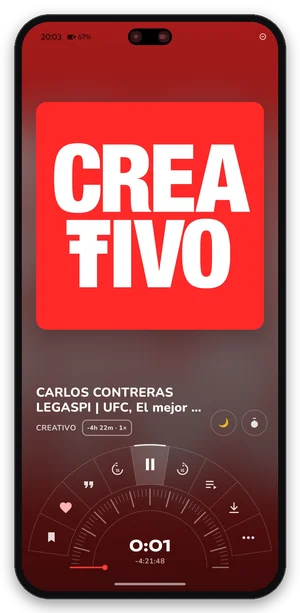
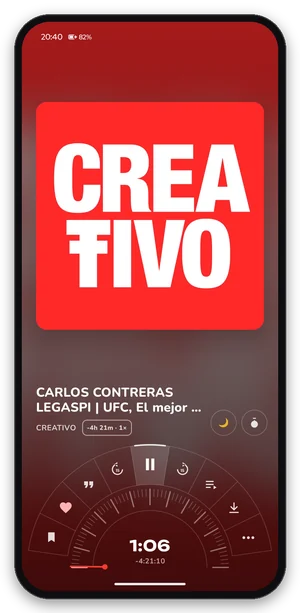
Capturas nuevas de Headpod sin la isla dinámica
Claude-Session: https://claude.ai/code/session_01NXFyG623uibTvfTSYqBJRS

diff --git a/index.html b/index.html
@@ -388,17 +388,17 @@ footer .envoltura{display:flex;justify-content:space-between;gap:12px;flex-wrap:
       </div>
       <div class="tira-titulo"><h3>Así se ve</h3></div>
       <div class="tira" tabindex="0" aria-label="Pantallas de Headpod">
-        <figure><img src="img/hp/inicio.webp" alt="Inicio con tu mezcla del día" loading="lazy"><figcaption>Inicio y tu mezcla del día</figcaption></figure>
-        <figure><img src="img/hp/descubrir.webp" alt="Descubrir" loading="lazy"><figcaption>Descubrir</figcaption></figure>
-        <figure><img src="img/hp/biblioteca.webp" alt="Biblioteca" loading="lazy"><figcaption>Biblioteca</figcaption></figure>
+        <figure><img src="img/hp/inicio.webp?v=2" alt="Inicio con tu mezcla del día" loading="lazy"><figcaption>Inicio y tu mezcla del día</figcaption></figure>
+        <figure><img src="img/hp/descubrir.webp?v=2" alt="Descubrir" loading="lazy"><figcaption>Descubrir</figcaption></figure>
+        <figure><img src="img/hp/biblioteca.webp?v=2" alt="Biblioteca" loading="lazy"><figcaption>Biblioteca</figcaption></figure>
       </div>
 
       <div class="tira-titulo"><h3>Elige tu reproductor</h3><small>en Ajustes → Reproductor</small></div>
       <div class="tira" tabindex="0" aria-label="Los cuatro estilos de reproductor">
-        <figure><img src="img/hp/rep-material3.webp" alt="Material 3" loading="lazy"><figcaption>Material 3<span>Expresivo, con botones que se deforman</span></figcaption></figure>
-        <figure><img src="img/hp/rep-disco.webp" alt="Disco" loading="lazy"><figcaption>Disco<span>Un tocadiscos: el brazo marca el avance</span></figcaption></figure>
-        <figure><img src="img/hp/rep-portada.webp" alt="Portada completa" loading="lazy"><figcaption>Portada completa<span>La portada en grande y un dial</span></figcaption></figure>
-        <figure><img src="img/hp/rep-clasico.webp" alt="Clásico" loading="lazy"><figcaption>Clásico<span>El diseño original de Headpod</span></figcaption></figure>
+        <figure><img src="img/hp/rep-material3.webp?v=2" alt="Material 3" loading="lazy"><figcaption>Material 3<span>Expresivo, con botones que se deforman</span></figcaption></figure>
+        <figure><img src="img/hp/rep-disco.webp?v=2" alt="Disco" loading="lazy"><figcaption>Disco<span>Un tocadiscos: el brazo marca el avance</span></figcaption></figure>
+        <figure><img src="img/hp/rep-portada.webp?v=2" alt="Portada completa" loading="lazy"><figcaption>Portada completa<span>La portada en grande y un dial</span></figcaption></figure>
+        <figure><img src="img/hp/rep-clasico.webp?v=2" alt="Clásico" loading="lazy"><figcaption>Clásico<span>El diseño original de Headpod</span></figcaption></figure>
       </div>
 
       <div class="cosas">

diff --git a/en/index.html b/en/index.html
@@ -388,17 +388,17 @@ footer .envoltura{display:flex;justify-content:space-between;gap:12px;flex-wrap:
       </div>
       <div class="tira-titulo"><h3>How it looks</h3></div>
       <div class="tira" tabindex="0" aria-label="Headpod screens">
-        <figure><img src="../img/hp/inicio.webp" alt="Home with your daily mix" loading="lazy"><figcaption>Home and your daily mix</figcaption></figure>
-        <figure><img src="../img/hp/descubrir.webp" alt="Discover" loading="lazy"><figcaption>Discover</figcaption></figure>
-        <figure><img src="../img/hp/biblioteca.webp" alt="Library" loading="lazy"><figcaption>Library</figcaption></figure>
+        <figure><img src="../img/hp/inicio.webp?v=2" alt="Home with your daily mix" loading="lazy"><figcaption>Home and your daily mix</figcaption></figure>
+        <figure><img src="../img/hp/descubrir.webp?v=2" alt="Discover" loading="lazy"><figcaption>Discover</figcaption></figure>
+        <figure><img src="../img/hp/biblioteca.webp?v=2" alt="Library" loading="lazy"><figcaption>Library</figcaption></figure>
       </div>
 
       <div class="tira-titulo"><h3>Pick your player</h3><small>in Settings → Player</small></div>
       <div class="tira" tabindex="0" aria-label="The four player styles">
-        <figure><img src="../img/hp/rep-material3.webp" alt="Material 3" loading="lazy"><figcaption>Material 3<span>Expressive, with shape-shifting buttons</span></figcaption></figure>
-        <figure><img src="../img/hp/rep-disco.webp" alt="Turntable" loading="lazy"><figcaption>Turntable<span>The tonearm shows your progress</span></figcaption></figure>
-        <figure><img src="../img/hp/rep-portada.webp" alt="Full artwork" loading="lazy"><figcaption>Full artwork<span>Big artwork and a dial</span></figcaption></figure>
-        <figure><img src="../img/hp/rep-clasico.webp" alt="Classic" loading="lazy"><figcaption>Classic<span>The original Headpod design</span></figcaption></figure>
+        <figure><img src="../img/hp/rep-material3.webp?v=2" alt="Material 3" loading="lazy"><figcaption>Material 3<span>Expressive, with shape-shifting buttons</span></figcaption></figure>
+        <figure><img src="../img/hp/rep-disco.webp?v=2" alt="Turntable" loading="lazy"><figcaption>Turntable<span>The tonearm shows your progress</span></figcaption></figure>
+        <figure><img src="../img/hp/rep-portada.webp?v=2" alt="Full artwork" loading="lazy"><figcaption>Full artwork<span>Big artwork and a dial</span></figcaption></figure>
+        <figure><img src="../img/hp/rep-clasico.webp?v=2" alt="Classic" loading="lazy"><figcaption>Classic<span>The original Headpod design</span></figcaption></figure>
       </div>
 
       <div class="cosas">
